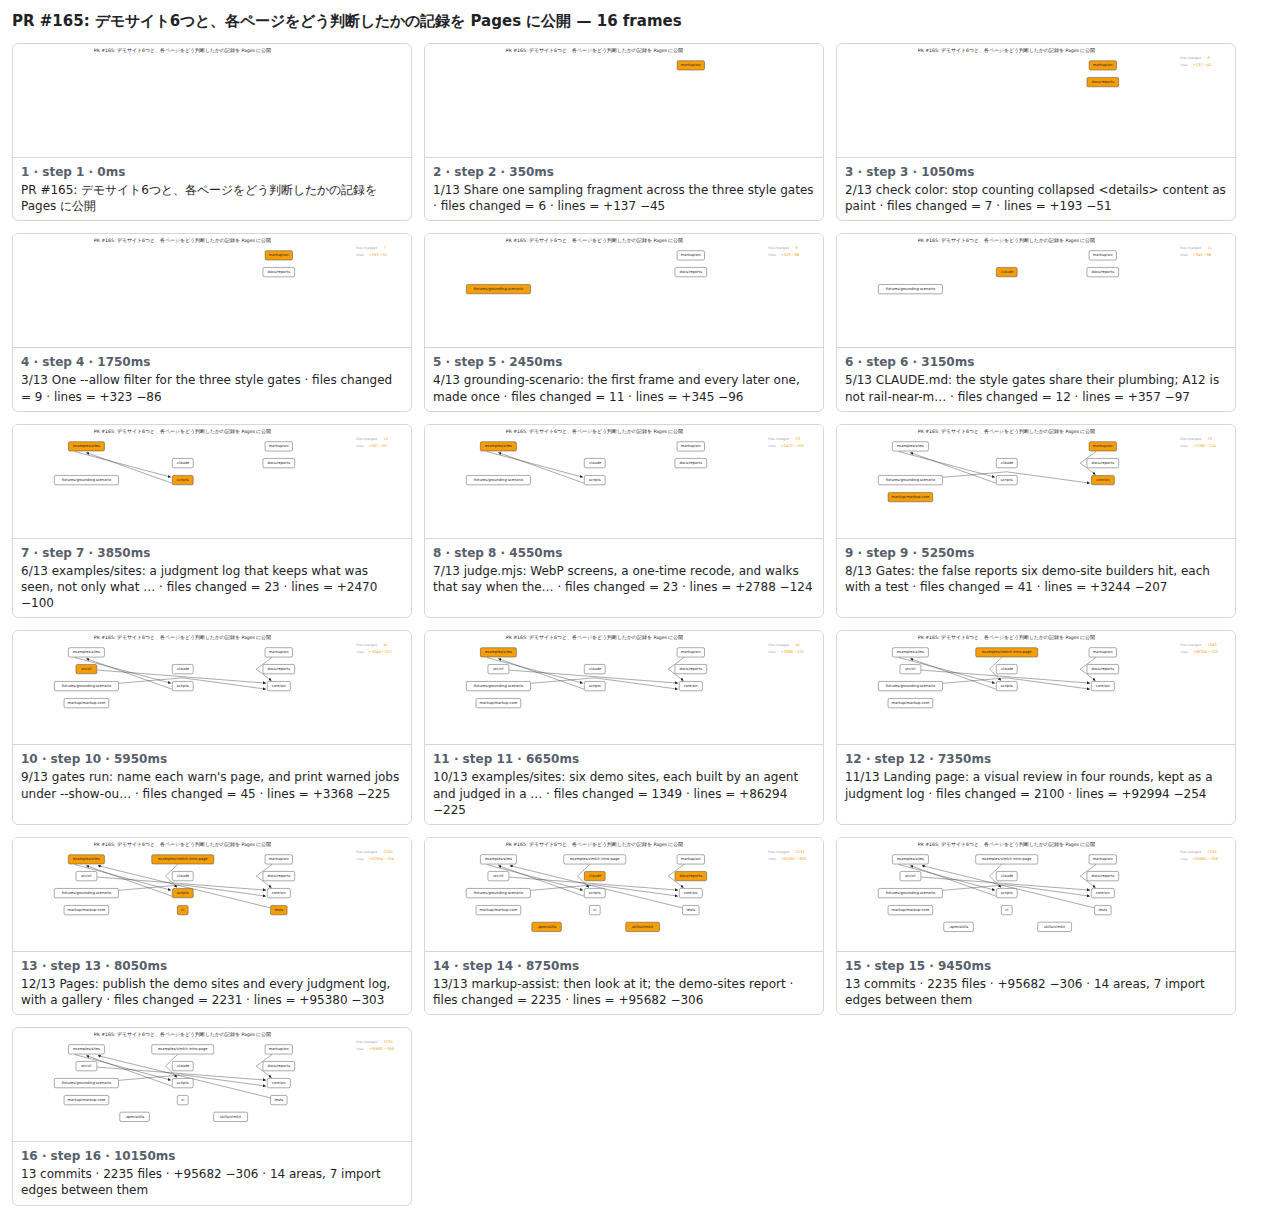
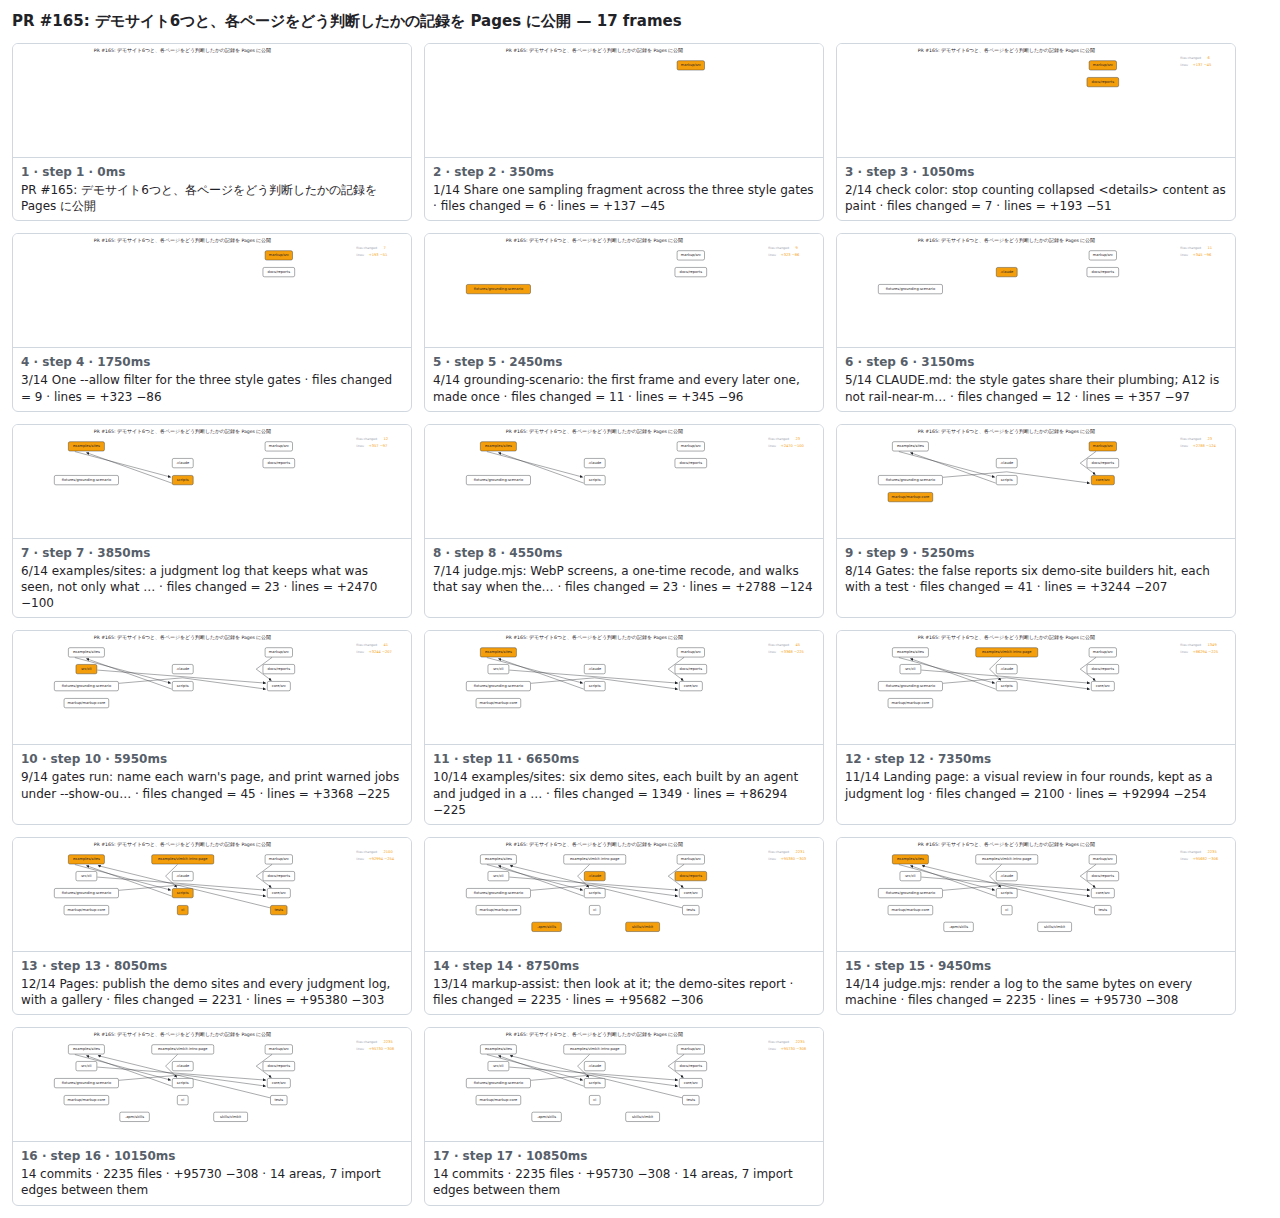
PR #165 @ ed4d71e

diff --git a/165/change-map.md b/165/change-map.md
@@ -7,23 +7,24 @@
 ![steps](./change-map.sheet.png)
 
 ```
-PR #165: デモサイト6つと、各ページをどう判断したかの記録を Pages に公開 — 16 steps, 10360ms, 27 nodes
+PR #165: デモサイト6つと、各ページをどう判断したかの記録を Pages に公開 — 17 steps, 11060ms, 27 nodes
  1. [    0ms] PR #165: デモサイト6つと、各ページをどう判断したかの記録を Pages に公開
- 2. [  350ms] 1/13 Share one sampling fragment across the three style gates · files changed = 6 · lines = +137 −45
- 3. [ 1050ms] 2/13 check color: stop counting collapsed <details> content as paint · files changed = 7 · lines = +193 −51
- 4. [ 1750ms] 3/13 One --allow filter for the three style gates · files changed = 9 · lines = +323 −86
- 5. [ 2450ms] 4/13 grounding-scenario: the first frame and every later one, made once · files changed = 11 · lines = +345 −96
- 6. [ 3150ms] 5/13 CLAUDE.md: the style gates share their plumbing; A12 is not rail-near-m… · files changed = 12 · lines = +357 −97
- 7. [ 3850ms] 6/13 examples/sites: a judgment log that keeps what was seen, not only what … · files changed = 23 · lines = +2470 −100
- 8. [ 4550ms] 7/13 judge.mjs: WebP screens, a one-time recode, and walks that say when the… · files changed = 23 · lines = +2788 −124
- 9. [ 5250ms] 8/13 Gates: the false reports six demo-site builders hit, each with a test · files changed = 41 · lines = +3244 −207
-10. [ 5950ms] 9/13 gates run: name each warn's page, and print warned jobs under --show-ou… · files changed = 45 · lines = +3368 −225
-11. [ 6650ms] 10/13 examples/sites: six demo sites, each built by an agent and judged in a … · files changed = 1349 · lines = +86294 −225
-12. [ 7350ms] 11/13 Landing page: a visual review in four rounds, kept as a judgment log · files changed = 2100 · lines = +92994 −254
-13. [ 8050ms] 12/13 Pages: publish the demo sites and every judgment log, with a gallery · files changed = 2231 · lines = +95380 −303
-14. [ 8750ms] 13/13 markup-assist: then look at it; the demo-sites report · files changed = 2235 · lines = +95682 −306
-15. [ 9450ms] 13 commits · 2235 files · +95682 −306 · 14 areas, 7 import edges between them
-16. [10150ms] (end)
+ 2. [  350ms] 1/14 Share one sampling fragment across the three style gates · files changed = 6 · lines = +137 −45
+ 3. [ 1050ms] 2/14 check color: stop counting collapsed <details> content as paint · files changed = 7 · lines = +193 −51
+ 4. [ 1750ms] 3/14 One --allow filter for the three style gates · files changed = 9 · lines = +323 −86
+ 5. [ 2450ms] 4/14 grounding-scenario: the first frame and every later one, made once · files changed = 11 · lines = +345 −96
+ 6. [ 3150ms] 5/14 CLAUDE.md: the style gates share their plumbing; A12 is not rail-near-m… · files changed = 12 · lines = +357 −97
+ 7. [ 3850ms] 6/14 examples/sites: a judgment log that keeps what was seen, not only what … · files changed = 23 · lines = +2470 −100
+ 8. [ 4550ms] 7/14 judge.mjs: WebP screens, a one-time recode, and walks that say when the… · files changed = 23 · lines = +2788 −124
+ 9. [ 5250ms] 8/14 Gates: the false reports six demo-site builders hit, each with a test · files changed = 41 · lines = +3244 −207
+10. [ 5950ms] 9/14 gates run: name each warn's page, and print warned jobs under --show-ou… · files changed = 45 · lines = +3368 −225
+11. [ 6650ms] 10/14 examples/sites: six demo sites, each built by an agent and judged in a … · files changed = 1349 · lines = +86294 −225
+12. [ 7350ms] 11/14 Landing page: a visual review in four rounds, kept as a judgment log · files changed = 2100 · lines = +92994 −254
+13. [ 8050ms] 12/14 Pages: publish the demo sites and every judgment log, with a gallery · files changed = 2231 · lines = +95380 −303
+14. [ 8750ms] 13/14 markup-assist: then look at it; the demo-sites report · files changed = 2235 · lines = +95682 −306
+15. [ 9450ms] 14/14 judge.mjs: render a log to the same bytes on every machine · files changed = 2235 · lines = +95730 −308
+16. [10150ms] 14 commits · 2235 files · +95730 −308 · 14 areas, 7 import edges between them
+17. [10850ms] (end)
 ```
 
 </details>
